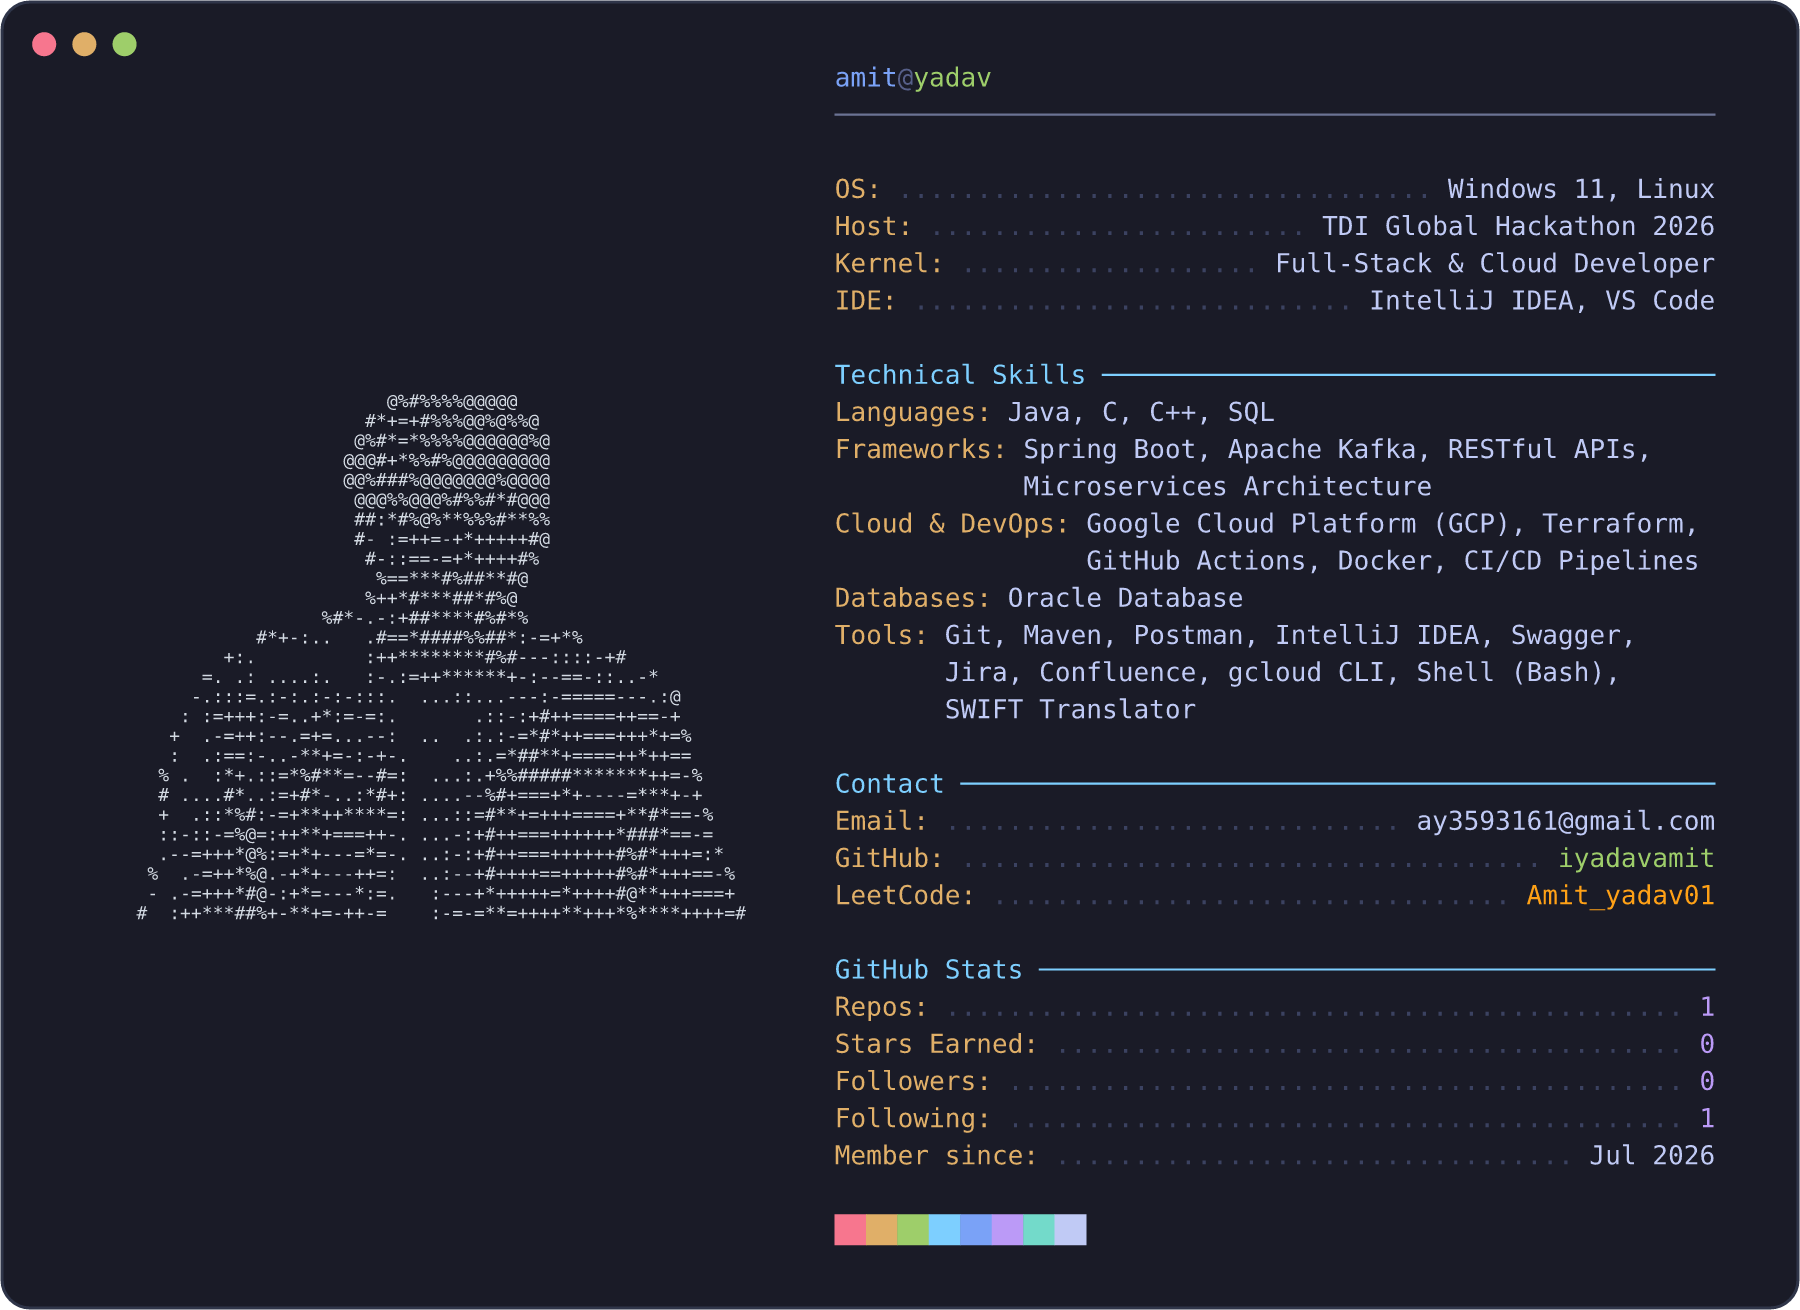
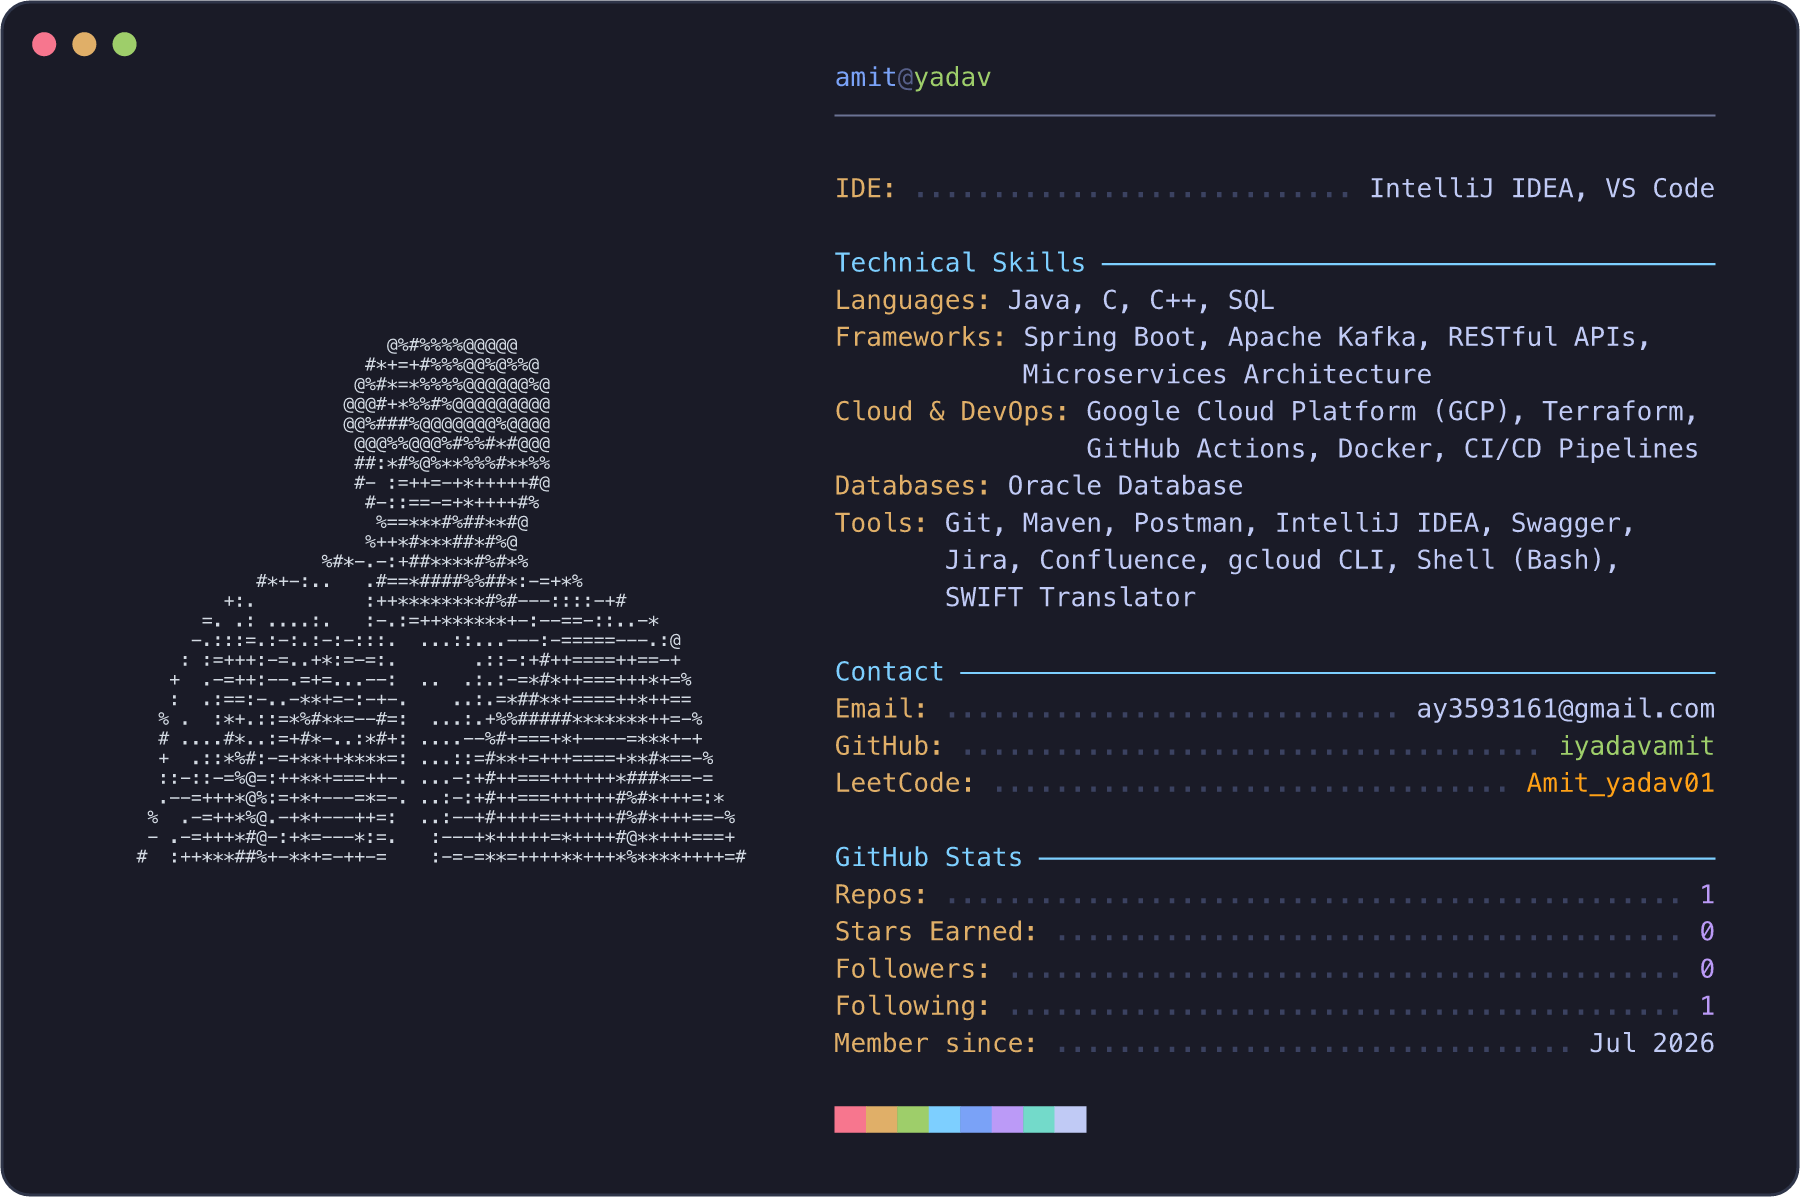
Card: drop OS/Host/Kernel lines (keep IDE + Technical Skills)

diff --git a/generate.py b/generate.py
@@ -18,9 +18,6 @@ HEADER_USER = "amit"
 HEADER_HOST = "yadav"
 
 SYSTEM = [
-    ("OS", "Windows 11, Linux"),
-    ("Host", "TDI Global Hackathon 2026"),
-    ("Kernel", "Full-Stack & Cloud Developer"),
     ("IDE", "IntelliJ IDEA, VS Code"),
 ]
 SKILLS = [
